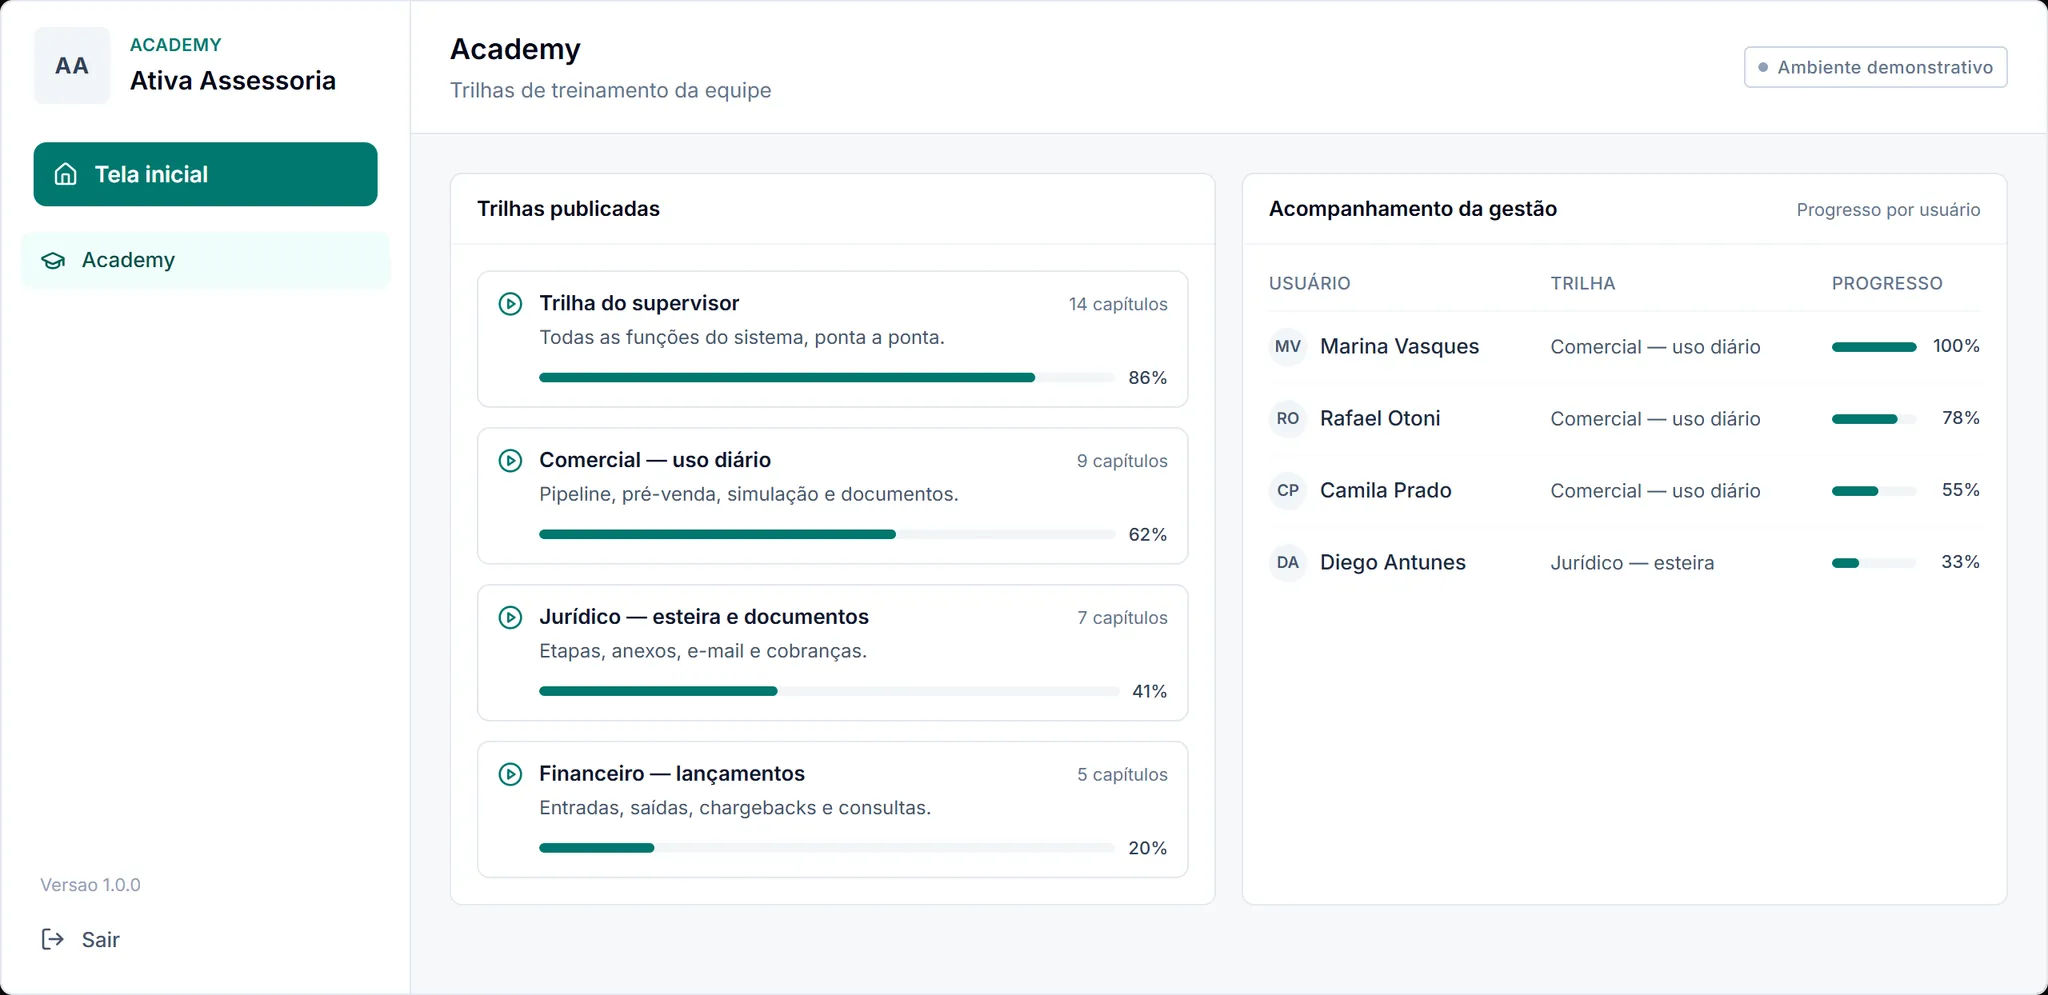
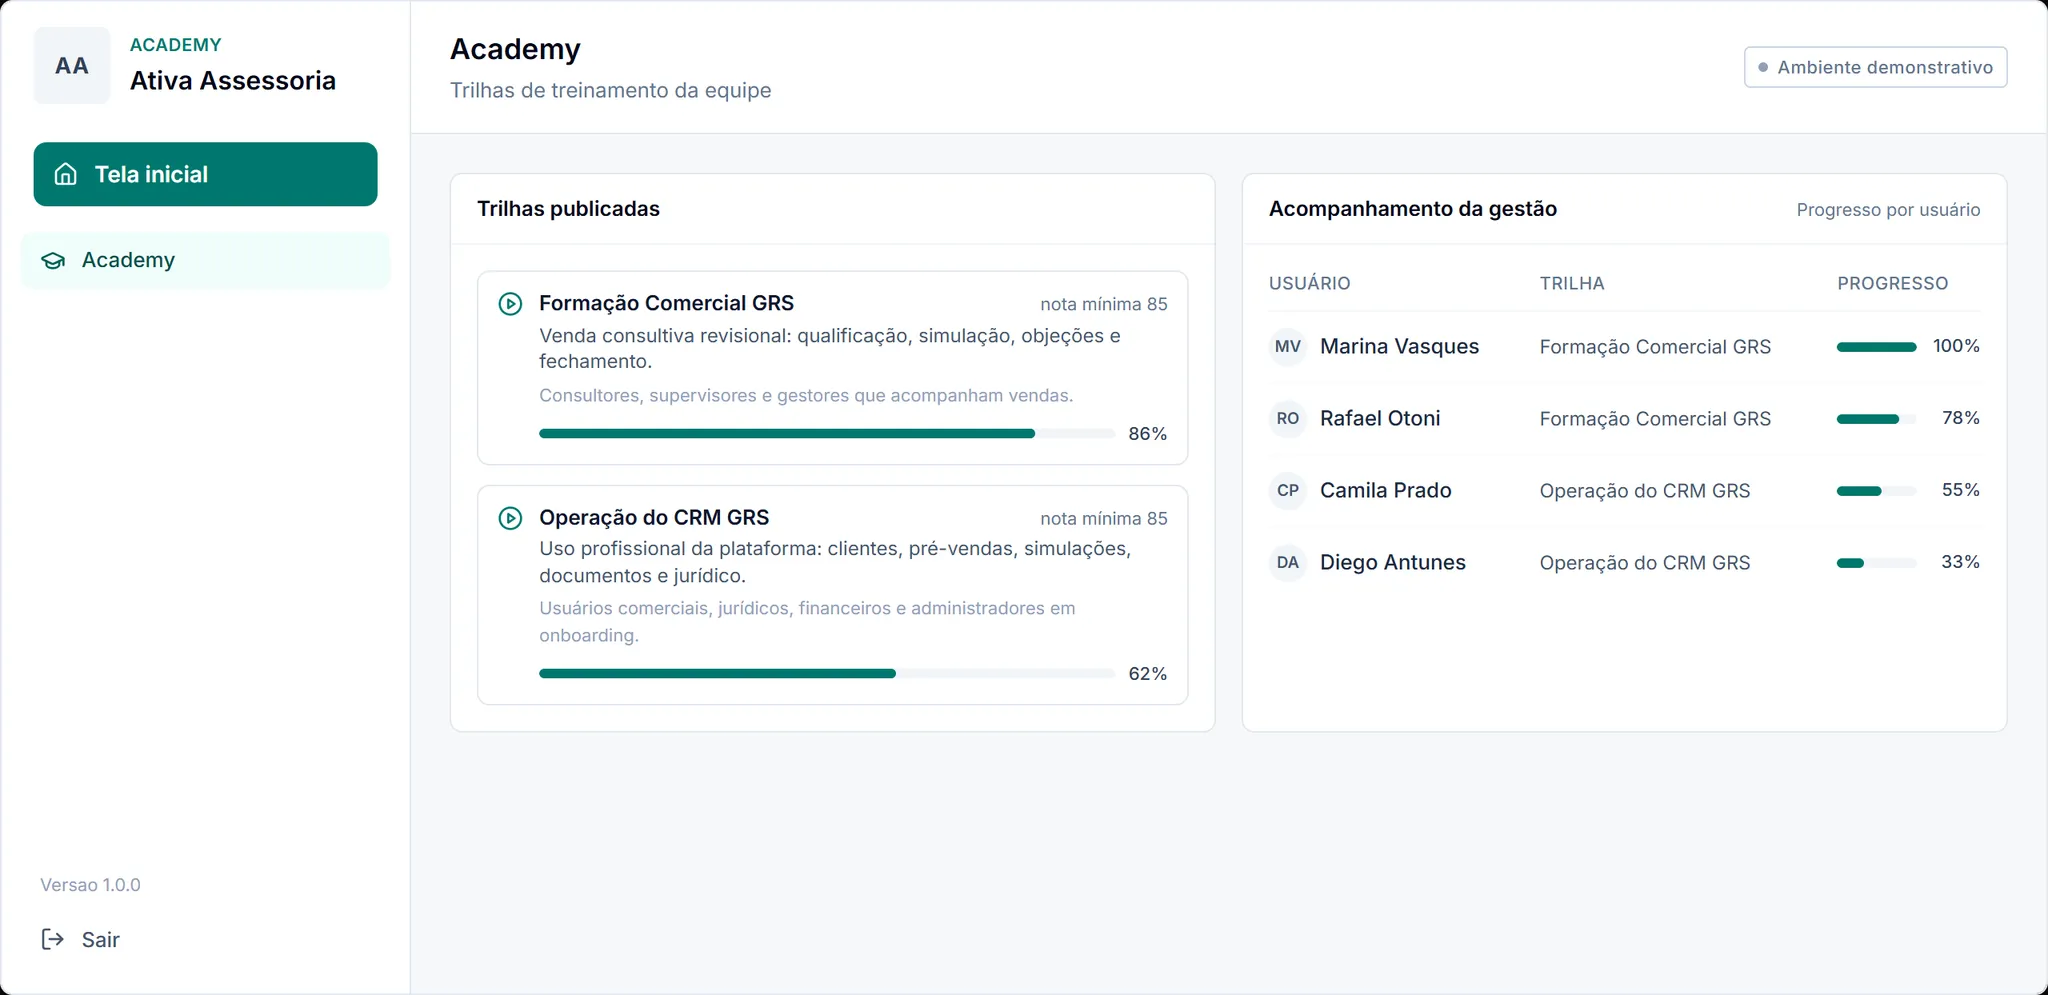
Corrige quatro afirmacoes falsas sobre o produto e conserta as ferramentas
Auditoria de veracidade contra o codigo do CRM, provocada pelo briefing.
Quatro coisas que o site afirmava e o produto nao faz:

1. Pipeline somava valor por coluna. Nao existe: pre-sales-kanban.tsx so
   formata o valor de cada card. Removido da replica e da copy.
2. A empresa cliente ligava e desligava modulos. Nao existe:
   updateCompanyPlatformSettingsAction exige isPlatformOwner. Agora a copy diz
   "configurados conforme o pacote contratado".
3. Academy tinha quatro trilhas, tres delas inventadas. Existem dois cursos,
   em lib/academy/course.ts: Formacao Comercial GRS e Operacao do CRM GRS,
   com nota minima 85.
4. Backup diario automatico para toda empresa. Softened para "rotinas de
   backup e restauracao conforme a configuracao do ambiente e do pacote".

Ferramentas:

- distDir customizado faz o Next exportar o site para dentro da propria pasta
  de build, e nao para out/. Os scripts serviam out/, entao fotografavam e
  auditavam um build antigo. Agora cada script serve a propria pasta.
- Captura e auditoria usavam a mesma pasta de build com pageExtensions
  diferentes; o cache de uma fazia a outra sair sem as rotas de captura. Uma
  pasta por finalidade: .next-capture e .next-tooling.
- A auditoria so construia se a pasta nao existisse, o que permitia validar
  build velho e passar por engano. Agora sempre reconstroi.

diff --git a/src/content/areas.ts b/src/content/areas.ts
@@ -76,10 +76,10 @@ export const areas: readonly Area[] = [
       {
         title: "Pipeline com o motivo de cada movimento",
         paragraph:
-          "As pré-vendas ficam em Kanban, com o valor somado por etapa e o responsável em cada card. Toda mudança de etapa pede o motivo, o que transforma o funil em histórico consultável em vez de fotografia do momento.",
+          "As pré-vendas ficam em Kanban, com o valor do contrato e o responsável em cada card. Toda mudança de etapa pede o motivo, o que transforma o funil em histórico consultável em vez de fotografia do momento.",
         items: [
           "Filtro por consultor, origem e produto",
-          "Valor total visível por coluna",
+          "Valor do contrato visível em cada card",
           "Registro obrigatório do motivo em cada mudança",
           "Pagamentos previstos e pagos vinculados à pré-venda",
           "Alerta de cobrança pelo que está previsto e não entrou",
@@ -322,13 +322,13 @@ export const areas: readonly Area[] = [
       "O treinamento mora dentro do sistema, no mesmo lugar onde o trabalho acontece. Não é PDF que ninguém abre nem vídeo perdido em pasta compartilhada.",
     blocks: [
       {
-        title: "Duas trilhas, propósitos diferentes",
+        title: "Dois cursos, propósitos diferentes",
         paragraph:
-          "A trilha do supervisor cobre todas as funções do sistema, porque é ele quem cria os usuários e configura a operação. As trilhas por setor mostram o uso específico de cada equipe — o consultor não assiste aula de conciliação financeira.",
+          "A Formação Comercial GRS trata da venda consultiva revisional — qualificação, simulação, objeções e fechamento. A Operação do CRM GRS ensina a usar a plataforma: clientes, pré-vendas, simulações, documentos e jurídico. Os dois exigem nota mínima 85 para aprovação.",
         items: [
-          "Trilha do supervisor com todas as funções",
-          "Trilha por setor, com o uso específico de cada equipe",
-          "Capítulos, avaliações e conclusão registrada",
+          "Formação Comercial GRS, para quem vende e para quem acompanha vendas",
+          "Operação do CRM GRS, para o onboarding de qualquer área",
+          "Capítulos, avaliações com nota mínima 85 e conclusão registrada",
           "Painel de acompanhamento do progresso para a gestão",
         ],
         screenshot: {
@@ -348,7 +348,7 @@ export const areas: readonly Area[] = [
       {
         question: "O treinamento está incluído ou é contratado à parte?",
         answer:
-          "As videoaulas ficam dentro da própria plataforma, na Academy, com trilha do supervisor e trilha por setor. O formato e o que entra no pacote são definidos na proposta, depois do diagnóstico.",
+          "As videoaulas ficam dentro da própria plataforma, na Academy, nos cursos Formação Comercial GRS e Operação do CRM GRS. O que entra no pacote é definido na proposta, depois do diagnóstico.",
       },
       {
         question: "Consigo acompanhar quem já fez o treinamento?",
@@ -381,9 +381,9 @@ export const areas: readonly Area[] = [
       "Marca, usuários, permissões e quais módulos ficam ligados são decisões da sua equipe, tomadas dentro do sistema — sem abrir chamado e sem esperar ninguém.",
     blocks: [
       {
-        title: "Você decide o que fica ligado",
+        title: "O ambiente é montado conforme o seu pacote",
         paragraph:
-          "São onze módulos, e a sua empresa escolhe quais entram. O que não é contratado não fica cinza esperando upgrade: some da barra lateral, e a equipe não perde tempo com tela que não vai usar. Usuários contratados e limite de armazenamento também ficam visíveis para o administrador da sua equipe.",
+          "São onze módulos, configurados conforme o pacote contratado e definidos com o comercial. O que não faz parte do pacote não fica cinza esperando upgrade: some da barra lateral, e a equipe não perde tempo com tela que não vai usar. Usuários contratados e limite de armazenamento ficam visíveis para o administrador da sua equipe acompanhar.",
         items: [
           "Comercial, Jurídico, Financeiro, Simulações, Documentos e Templates",
           "Distribuição de leads, Portal do cliente e Academy",
@@ -411,8 +411,9 @@ export const areas: readonly Area[] = [
           "Permissão por função e departamento",
           "Log de auditoria com autor e data, mantido sem expiração automática",
           "Linha do tempo com o histórico de alterações de cada cliente",
-          "Backup completo gerado todo dia e guardado fora do banco de dados",
-          "Sete dias de janela de restauração, completa ou de um cliente específico",
+          "Rotinas de backup e restauração conforme a configuração do ambiente e do pacote contratado",
+          "Cópia guardada fora do banco de dados, em repositório privado separado",
+          "Restauração completa ou limitada a um cliente específico",
           "Tokens de e-mail e integrações guardados cifrados",
         ],
       },
@@ -431,7 +432,7 @@ export const areas: readonly Area[] = [
       {
         question: "E se alguém apagar algo por engano?",
         answer:
-          "Há backup completo gerado automaticamente todo dia e guardado fora do banco, com sete dias de janela de restauração. A restauração pode ser completa ou limitada a um cliente específico.",
+          "Há rotinas de backup e restauração, definidas conforme a configuração do ambiente e do pacote contratado. A cópia é guardada fora do banco de dados, e a restauração pode ser completa ou limitada a um cliente específico.",
       },
       {
         question: "O sistema fica com a marca da minha empresa?",
@@ -441,7 +442,7 @@ export const areas: readonly Area[] = [
       {
         question: "Consigo contratar só uma parte do sistema?",
         answer:
-          "Sim. São onze módulos, e você escolhe quais entram no seu ambiente. O que não foi contratado nem aparece na barra lateral da equipe.",
+          "Sim. Os módulos são configurados conforme o pacote contratado, definido com o comercial. O que não faz parte do pacote nem aparece na barra lateral da equipe.",
       },
     ],
     whatsappMessage:

diff --git a/src/components/demo/data.ts b/src/components/demo/data.ts
@@ -79,11 +79,15 @@ export const leadDistribution = {
   ],
 };
 
+/**
+ * Pipeline. O sistema mostra o valor do contrato em cada card, mas **não**
+ * soma por coluna — conferido em `pre-sales-kanban.tsx`, que só formata o
+ * valor do card. A réplica não pode mostrar o que o produto não faz.
+ */
 export const pipeline = {
   columns: [
     {
       title: "Novo contato",
-      total: "R$ 18.400",
       cards: [
         { client: "Helena Marcondes", product: "Veículo", value: "R$ 4.800", owner: "MV", age: "1 dia" },
         { client: "Otávio Bittencourt", product: "Imóvel", value: "R$ 7.200", owner: "RO", age: "1 dia" },
@@ -92,7 +96,6 @@ export const pipeline = {
     },
     {
       title: "Em negociação",
-      total: "R$ 26.100",
       cards: [
         { client: "Fábio Tanaka", product: "Veículo", value: "R$ 5.900", owner: "MV", age: "4 dias" },
         { client: "Cleusa Andrade", product: "Imóvel", value: "R$ 12.400", owner: "DA", age: "6 dias" },
@@ -101,7 +104,6 @@ export const pipeline = {
     },
     {
       title: "Proposta enviada",
-      total: "R$ 21.700",
       cards: [
         { client: "Neusa Villar", product: "Empréstimo", value: "R$ 9.300", owner: "CP", age: "8 dias" },
         { client: "Ademir Fontoura", product: "Veículo", value: "R$ 12.400", owner: "MV", age: "5 dias" },
@@ -109,14 +111,12 @@ export const pipeline = {
     },
     {
       title: "Aguardando documentos",
-      total: "R$ 15.200",
       cards: [
         { client: "Sueli Barcelos", product: "Imóvel", value: "R$ 15.200", owner: "LN", age: "11 dias" },
       ],
     },
     {
       title: "Aprovado",
-      total: "R$ 33.900",
       cards: [
         { client: "Jorge Menegatti", product: "Veículo", value: "R$ 8.700", owner: "RO", age: "2 dias" },
         { client: "Tereza Aquino", product: "Imóvel", value: "R$ 25.200", owner: "MV", age: "1 dia" },
@@ -347,38 +347,41 @@ export const finance = {
   ],
 };
 
+/**
+ * Os dois cursos que existem de fato, conforme `src/lib/academy/course.ts`
+ * do CRM. A nota de corte 85 também vem de lá.
+ *
+ * Não inventar trilha de jurídico, financeiro ou supervisão: anunciar curso
+ * que não existe é promessa que o cliente cobra na primeira semana de uso.
+ */
 export const academy = {
+  passingScore: 85,
   tracks: [
     {
-      name: "Trilha do supervisor",
-      description: "Todas as funções do sistema, ponta a ponta.",
-      chapters: 14,
+      name: "Formação Comercial GRS",
+      description:
+        "Venda consultiva revisional: qualificação, simulação, objeções e fechamento.",
+      audience: "Consultores, supervisores e gestores que acompanham vendas.",
       progress: 86,
     },
     {
-      name: "Comercial — uso diário",
-      description: "Pipeline, pré-venda, simulação e documentos.",
-      chapters: 9,
+      name: "Operação do CRM GRS",
+      description:
+        "Uso profissional da plataforma: clientes, pré-vendas, simulações, documentos e jurídico.",
+      audience: "Usuários comerciais, jurídicos, financeiros e administradores em onboarding.",
       progress: 62,
-    },
-    {
-      name: "Jurídico — esteira e documentos",
-      description: "Etapas, anexos, e-mail e cobranças.",
-      chapters: 7,
-      progress: 41,
-    },
-    {
-      name: "Financeiro — lançamentos",
-      description: "Entradas, saídas, chargebacks e consultas.",
-      chapters: 5,
-      progress: 20,
     },
   ],
   team: [
-    { name: "Marina Vasques", track: "Comercial — uso diário", progress: 100, status: "Concluído" },
-    { name: "Rafael Otoni", track: "Comercial — uso diário", progress: 78, status: "Em andamento" },
-    { name: "Camila Prado", track: "Comercial — uso diário", progress: 55, status: "Em andamento" },
-    { name: "Diego Antunes", track: "Jurídico — esteira", progress: 33, status: "Em andamento" },
+    {
+      name: "Marina Vasques",
+      track: "Formação Comercial GRS",
+      progress: 100,
+      status: "Aprovada · 92",
+    },
+    { name: "Rafael Otoni", track: "Formação Comercial GRS", progress: 78, status: "Em andamento" },
+    { name: "Camila Prado", track: "Operação do CRM GRS", progress: 55, status: "Em andamento" },
+    { name: "Diego Antunes", track: "Operação do CRM GRS", progress: 33, status: "Em andamento" },
   ],
 };
 
@@ -464,7 +467,7 @@ export const backups = {
     { name: "backup-2026-08-09", origin: "Automático", status: "Concluído", size: "405 MB", created: "09/08 · 00:10", expires: "16/08" },
     { name: "backup-2026-08-08", origin: "Automático", status: "Concluído", size: "401 MB", created: "08/08 · 00:10", expires: "15/08" },
   ],
-  note: "Cópia completa gerada todo dia às 00:10 e guardada fora do banco de dados.",
+  note: "Rotina deste ambiente demonstrativo: cópia guardada fora do banco de dados.",
 };
 
 export const logs = {

diff --git a/src/content/site.ts b/src/content/site.ts
@@ -132,7 +132,7 @@ export const journey = {
         "A pré-venda anda pelo pipeline com o motivo de cada mudança registrado. Quando o caso pede, a simulação gera o relatório em PDF e a imagem-resumo na hora, e os documentos saem de template com numeração própria.",
       href: "/comercial",
       screenshot: "pipeline",
-      alt: "Pipeline comercial em Kanban com valor somado por etapa",
+      alt: "Pipeline comercial em Kanban, com o valor do contrato em cada card",
     },
     {
       name: "Jurídico",
@@ -157,7 +157,7 @@ export const areasIndex = {
   eyebrow: "As cinco áreas",
   title: "O site tem a mesma divisão que o sistema.",
   intro:
-    "Cada área é um conjunto de módulos, e você escolhe quais entram no seu ambiente. Entre na que interessa para a sua operação — o que não é contratado nem aparece na barra lateral da equipe.",
+    "Cada área é um conjunto de módulos, configurados conforme o pacote contratado. Entre na que interessa para a sua operação — o que não faz parte do pacote nem aparece na barra lateral da equipe.",
 };
 
 export const securityTeaser = {
@@ -171,8 +171,9 @@ export const securityTeaser = {
       description: "Isolamento aplicado no banco de dados, não somente na tela.",
     },
     {
-      title: "Backup diário automático",
-      description: "Cópia completa guardada fora do banco, com sete dias de restauração.",
+      title: "Backup e restauração",
+      description:
+        "Rotinas de cópia e restauração conforme a configuração do ambiente e do pacote contratado.",
     },
     {
       title: "Rastro de quem fez o quê",
@@ -207,7 +208,7 @@ export const implementation = {
     {
       title: "Treinamento e operação assistida",
       description:
-        "As videoaulas ficam na Academy dentro do sistema, com trilha do supervisor e trilha por setor.",
+        "As videoaulas ficam na Academy dentro do sistema: Formação Comercial GRS e Operação do CRM GRS.",
     },
   ],
   support: {

diff --git a/src/components/demo/screens-operacao.tsx b/src/components/demo/screens-operacao.tsx
@@ -229,10 +229,13 @@ export function AcademyScreen() {
                     <div className="flex items-baseline justify-between gap-2">
                       <p className="truncate text-[13px] font-semibold text-slate-900">{track.name}</p>
                       <span className="shrink-0 text-[11px] text-slate-500">
-                        {track.chapters} capítulos
+                        nota mínima {academy.passingScore}
                       </span>
                     </div>
-                    <p className="mt-0.5 truncate text-[12px] text-slate-600">{track.description}</p>
+                    <p className="mt-0.5 text-[12px] leading-snug text-slate-600">
+                      {track.description}
+                    </p>
+                    <p className="mt-1 text-[11px] text-slate-400">{track.audience}</p>
                     <div className="mt-2 flex items-center gap-2">
                       <Bar value={track.progress} />
                       <span className="shrink-0 text-[11px] font-medium text-slate-700">
@@ -291,7 +294,7 @@ export function ConfiguracaoEmpresa() {
       workspace="Gestão"
       active="Empresa"
       title={companySettings.name}
-      subtitle="Configuração da empresa · administrada pela própria equipe"
+      subtitle="Configuração da empresa · módulos conforme o pacote contratado"
       actions={<Pill tone="teal">Ambiente ativo</Pill>}
     >
       <div className="grid grid-cols-3 gap-4">
@@ -385,7 +388,7 @@ export function ConfiguracaoEmpresa() {
           ))}
         </div>
         <p className="mt-4 border-t border-slate-100 pt-3 text-[12px] text-slate-600">
-          Módulo desligado não aparece na barra lateral da equipe.
+          Módulo fora do pacote não aparece na barra lateral da equipe.
         </p>
       </Panel>
     </Screen>

diff --git a/src/components/demo/screens-comercial.tsx b/src/components/demo/screens-comercial.tsx
@@ -184,14 +184,11 @@ export function Pipeline() {
       <div className="flex gap-3">
         {pipeline.columns.map((column) => (
           <div key={column.title} className="flex w-56 shrink-0 flex-col">
-            <div className="flex items-baseline justify-between gap-2 rounded-t-lg border border-b-0 border-slate-200 bg-white px-3 py-2.5">
+            <div className="flex items-baseline justify-between gap-2 rounded-t-lg border border-b-0 border-slate-200 bg-white px-3 py-3">
               <h4 className="truncate text-[12px] font-semibold text-slate-950">{column.title}</h4>
               <span className="shrink-0 text-[11px] text-slate-500">{column.cards.length}</span>
             </div>
-            <div className="border-x border-slate-200 bg-white px-3 pb-2">
-              <p className="text-[11px] font-medium text-teal-700">{column.total}</p>
-            </div>
-            <div className="flex-1 space-y-2 rounded-b-lg border border-t-0 border-slate-200 bg-slate-50/60 p-2">
+            <div className="flex-1 space-y-2 rounded-b-lg border-x border-b border-slate-200 bg-slate-50/60 p-2">
               {column.cards.map((card) => (
                 <article
                   key={card.client}

diff --git a/next.config.ts b/next.config.ts
@@ -9,8 +9,17 @@ const pageExtensions =
 
 // Os scripts de captura e auditoria rodam `next build` por conta própria. Se
 // escrevessem na mesma pasta que o `next dev`, derrubariam o servidor de
-// desenvolvimento no meio do trabalho — então eles constroem em outro lugar.
-const distDir = process.env.BUILD_TARGET === "tooling" ? ".next-tooling" : ".next";
+// desenvolvimento no meio do trabalho — então cada um constrói em outro lugar.
+//
+// Captura e auditoria também não podem dividir a mesma pasta: elas usam
+// `pageExtensions` diferentes, e o cache de uma faz a outra sair sem as rotas
+// de captura. Uma pasta por finalidade.
+const distDirPorAlvo: Record<string, string> = {
+  capture: ".next-capture",
+  tooling: ".next-tooling",
+};
+
+const distDir = distDirPorAlvo[process.env.BUILD_TARGET ?? ""] ?? ".next";
 
 const nextConfig: NextConfig = {
   output: "export",

diff --git a/src/components/demo/screens-gestao.tsx b/src/components/demo/screens-gestao.tsx
@@ -150,7 +150,7 @@ export function Backups() {
     >
       <div className="grid grid-cols-3 gap-3">
         <Stat label="Último backup" value="Hoje · 00:10" tone="positive" />
-        <Stat label="Janela de restauração" value="7 dias" hint="Cada cópia expira sozinha" />
+        <Stat label="Janela de restauração" value="7 dias" hint="Neste ambiente demonstrativo" />
         <Stat label="Guardado em" value="Fora do banco" hint="Repositório privado separado" />
       </div>
 

diff --git a/src/app/page.tsx b/src/app/page.tsx
@@ -55,7 +55,7 @@ const structuredData = {
         "Portal de acompanhamento do cliente por CPF e protocolo",
         "Painel comercial e módulo financeiro",
         "Academy com trilhas de treinamento",
-        "Backup diário automático com restauração",
+        "Rotinas de backup e restauração conforme o ambiente contratado",
       ],
       offers: {
         "@type": "Offer",
